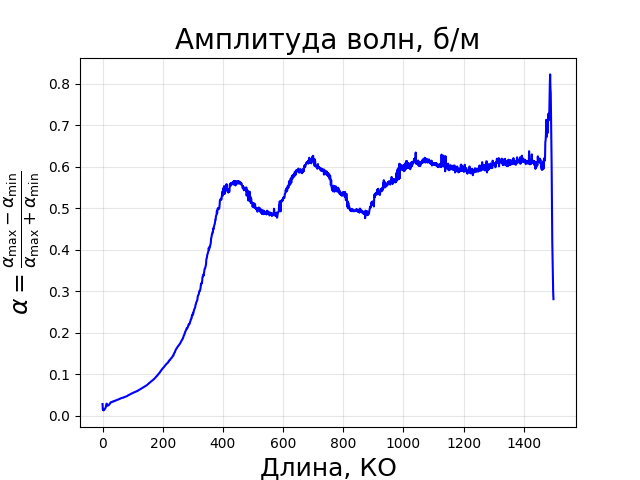
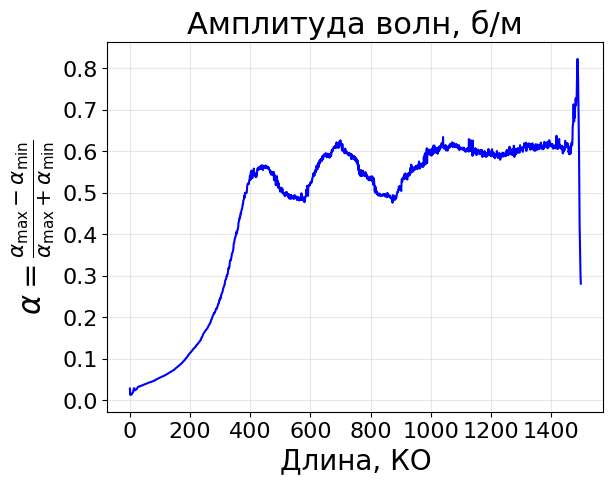
forpres

diff --git a/processing_part4.py b/processing_part4.py
@@ -104,6 +104,8 @@ plt.xlabel('Длина, КО', fontsize=18)
 plt.ylabel(r'$\alpha = \frac{\alpha_{\max} - \alpha_{\min}}{\alpha_{\max} + \alpha_{\min}}$', fontsize=18)
 plt.grid(True, alpha=0.3)
 plt.title(f'Амплитуда волн, б/м', fontsize=20)
+plt.xticks(fontsize=16)
+plt.yticks(fontsize=16)
 plt.show()
 
 print(dx_step)
